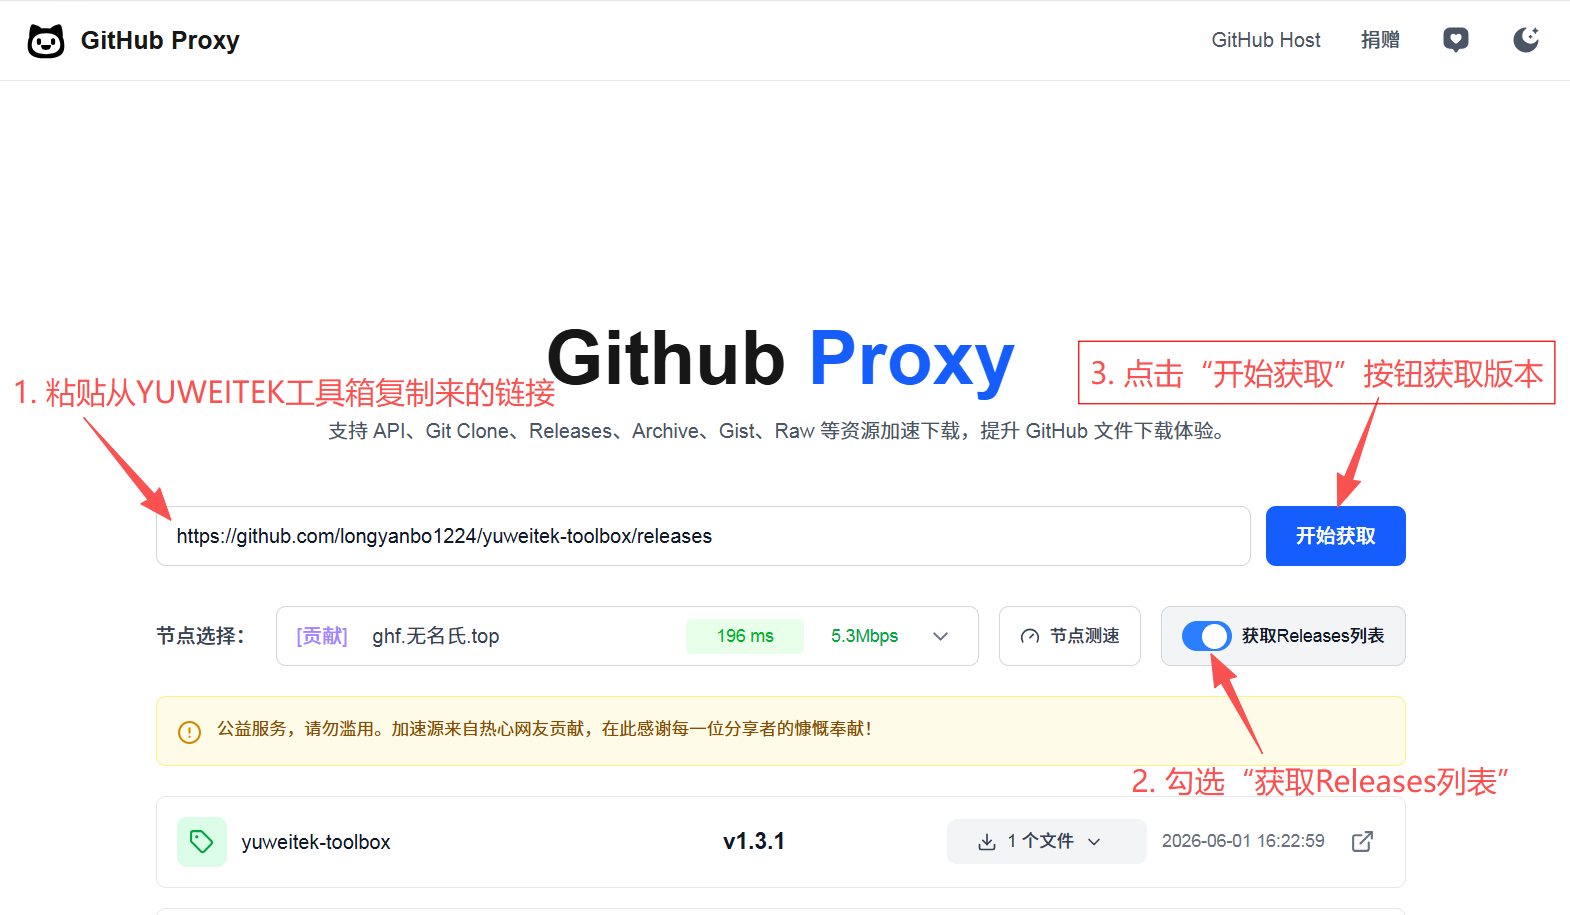
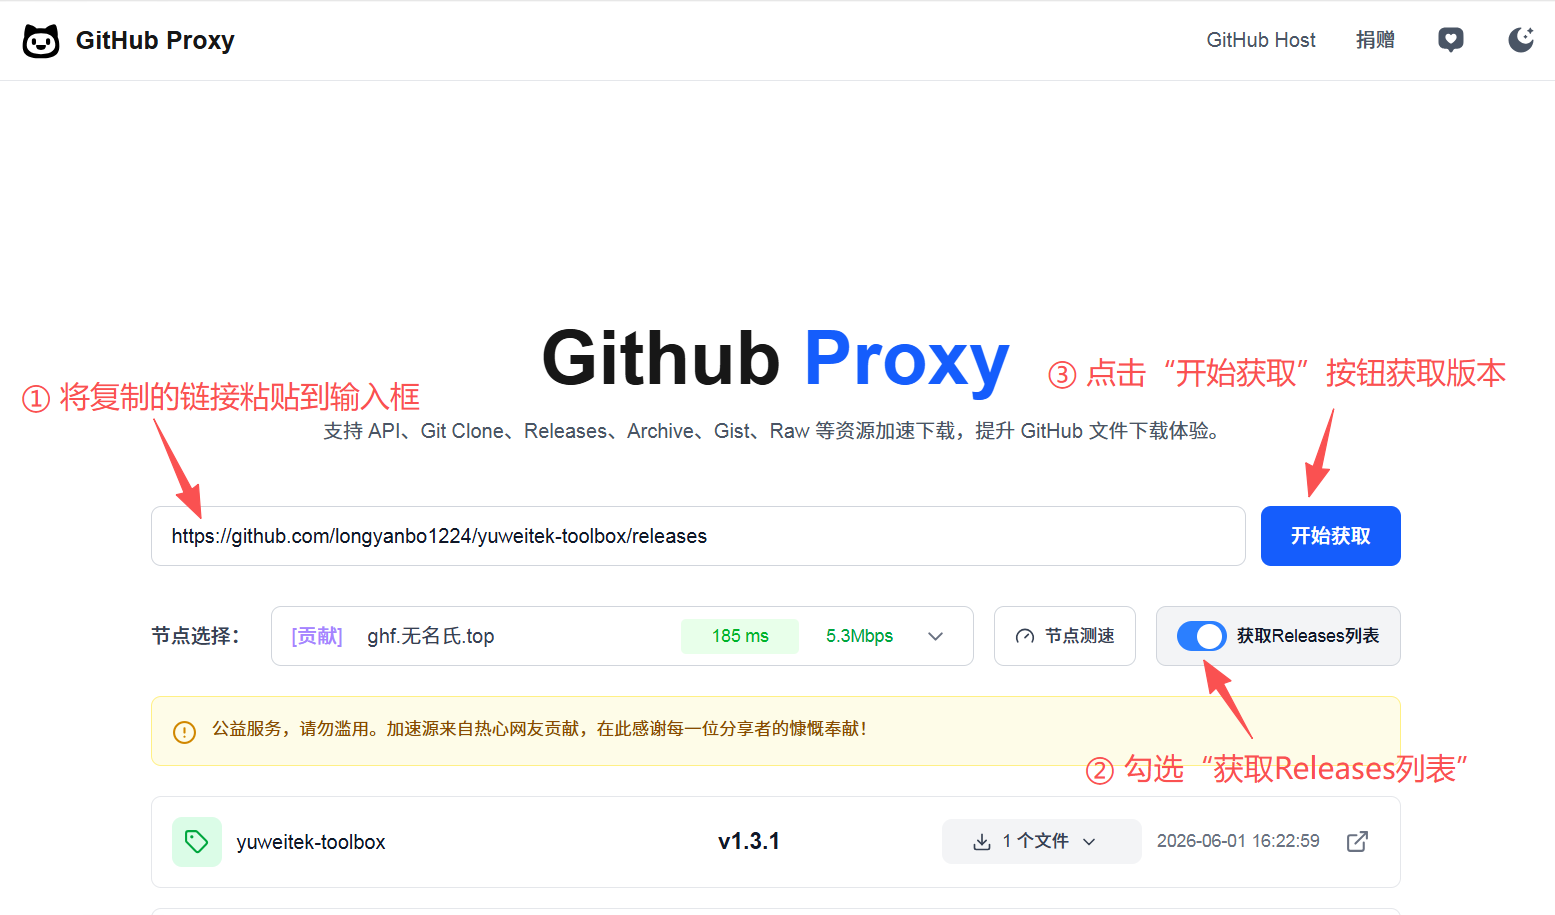
feat: 新增一键打包脚本，更新CHANGELOG v1.3.1

diff --git a/wwwroot/CHANGELOG.md b/wwwroot/CHANGELOG.md
@@ -1,4 +1,4 @@
-## [1.3.1] - 2026-06-01
+## [1.3.1] - 2026-06-02
 
 ### 新增
 - **Hex转换支持批量转换**：Hex转换工具新增批量模式（模板导入），支持上传 TXT/CSV/Excel 文件，自动识别表头和数据列，可选择 Sheet 和列，支持拖拽上传，带进度条和结果预览（前10行），转换完成后可下载结果文件。
@@ -6,6 +6,12 @@
 - **Hex转换复制结果按钮**：单次转换区域新增"复制结果"按钮，一键复制输出内容到剪贴板。
 - **安装包中文界面**：Inno Setup 安装程序新增简体中文语言支持（`ChineseSimplified.isl`），安装全过程显示中文。
 - **更新下载操作提示图**：强制更新、推荐更新、历史版本弹窗新增可视化操作流程图，直观展示检查更新、强制更新、历史版本三种下载方式。
+- **PyWebView 桌面窗口模式**：支持以独立桌面窗口运行（`--mode pywebview`），标题栏显示打包图标，无边框窗口+居中显示。
+- **一键打包脚本**：新增 `build(一键打包).bat`，自动完成 PyInstaller 打包 → Inno Setup 编译安装程序 → 清理 dist 临时文件，一次点击即可完成全部打包流程。
+
+### 修复
+- **PyWebView 初始化重复启动 Flask**：修复 PyWebView 初始化时重复启动 Flask 服务的问题。
+- **ADB 客户端界面显示异常**：修复 ADB 客户端界面显示问题。
 
 ### 变更
 - **更新检查改为 GitHub Releases API**：版本更新检查从 Gitee update.json 改为优先使用 GitHub Releases API（`/repos/{owner}/{repo}/releases/latest`），备用 update.json（jsDelivr CDN），移除对 Gitee 主节点的依赖。
@@ -13,6 +19,7 @@
 - **检查更新、强制更新、历史版本跳转方式优化**：改进三种更新场景的页面跳转逻辑，提升用户体验。
 - **后端移除 `update_url` 字段**：`/api/license/version` 接口不再返回 `update_url`，前端直接使用固定的 GitHub Releases 链接。
 - **Hex转换实时转换统一**：切换进制、修改输入等操作统一走实时转换逻辑，移除重复的 `convertRadix` 调用，交互更一致。
+- 更新图标资源路径和代理配置。
 
 ### 优化
 - **移动端布局优化**：优化移动端页面布局，提升小屏幕下的显示效果和操作体验。
